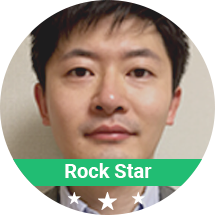
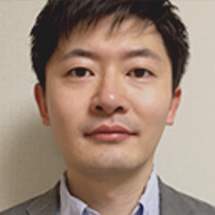
Issue #49446: Rock star photos & stars.

diff --git a/assets/css/style.css b/assets/css/style.css
@@ -1476,6 +1476,32 @@ label[for="Partner_Opt_In__c"] {
   font-size: 20px;
 }
 
+.badge:after {
+  content: '';
+  display: block;
+  bottom: -100%;
+  width: 100%;
+  height: 100%;
+  position: absolute;
+  background-repeat: no-repeat;
+  background-position: bottom center;
+}
+
+.rock-star-small:after {
+  background-image: url('/assets/images/rock-star-small.png');
+  bottom: -75%;
+}
+
+.rock-star:after {
+  background-image: url('/assets/images/rock-star.png');
+  bottom: -100%;
+}
+
+.rock-star-large:after {
+  background-image: url('/assets/images/rock-star-large.png');
+  bottom: -100%;
+}
+
 /**
  * This injects all of Tailwind's utility classes, generated based on your
  * config file.
@@ -4161,6 +4187,21 @@ label[for="Partner_Opt_In__c"] {
 }
 
 @media (min-width: 420px) {
+  .sm\:rock-star-small:after {
+    background-image: url('/assets/images/rock-star-small.png');
+    bottom: -75%;
+  }
+
+  .sm\:rock-star:after {
+    background-image: url('/assets/images/rock-star.png');
+    bottom: -100%;
+  }
+
+  .sm\:rock-star-large:after {
+    background-image: url('/assets/images/rock-star-large.png');
+    bottom: -100%;
+  }
+
   .sm\:list-reset {
     list-style: none;
     padding: 0;
@@ -6743,6 +6784,21 @@ label[for="Partner_Opt_In__c"] {
 }
 
 @media (min-width: 576px) {
+  .md\:rock-star-small:after {
+    background-image: url('/assets/images/rock-star-small.png');
+    bottom: -75%;
+  }
+
+  .md\:rock-star:after {
+    background-image: url('/assets/images/rock-star.png');
+    bottom: -100%;
+  }
+
+  .md\:rock-star-large:after {
+    background-image: url('/assets/images/rock-star-large.png');
+    bottom: -100%;
+  }
+
   .md\:list-reset {
     list-style: none;
     padding: 0;
@@ -9325,6 +9381,21 @@ label[for="Partner_Opt_In__c"] {
 }
 
 @media (max-width: 767px) {
+  .\<lg\:rock-star-small:after {
+    background-image: url('/assets/images/rock-star-small.png');
+    bottom: -75%;
+  }
+
+  .\<lg\:rock-star:after {
+    background-image: url('/assets/images/rock-star.png');
+    bottom: -100%;
+  }
+
+  .\<lg\:rock-star-large:after {
+    background-image: url('/assets/images/rock-star-large.png');
+    bottom: -100%;
+  }
+
   .\<lg\:list-reset {
     list-style: none;
     padding: 0;
@@ -11907,6 +11978,21 @@ label[for="Partner_Opt_In__c"] {
 }
 
 @media (min-width: 768px) {
+  .lg\:rock-star-small:after {
+    background-image: url('/assets/images/rock-star-small.png');
+    bottom: -75%;
+  }
+
+  .lg\:rock-star:after {
+    background-image: url('/assets/images/rock-star.png');
+    bottom: -100%;
+  }
+
+  .lg\:rock-star-large:after {
+    background-image: url('/assets/images/rock-star-large.png');
+    bottom: -100%;
+  }
+
   .lg\:list-reset {
     list-style: none;
     padding: 0;
@@ -14489,6 +14575,21 @@ label[for="Partner_Opt_In__c"] {
 }
 
 @media (min-width: 992px) {
+  .xl\:rock-star-small:after {
+    background-image: url('/assets/images/rock-star-small.png');
+    bottom: -75%;
+  }
+
+  .xl\:rock-star:after {
+    background-image: url('/assets/images/rock-star.png');
+    bottom: -100%;
+  }
+
+  .xl\:rock-star-large:after {
+    background-image: url('/assets/images/rock-star-large.png');
+    bottom: -100%;
+  }
+
   .xl\:list-reset {
     list-style: none;
     padding: 0;

diff --git a/_includes/team_profile.html b/_includes/team_profile.html
@@ -4,13 +4,14 @@
 <div class="xl:intrinsic-2x1">
   <div class="w-32 mb-2 mx-auto relative sm:float-left sm:ml-0 sm:mr-3 md:w-48 xl:absolute xl:m-0 xl:pin-y xl:pin-l xl:w-1/2 xl:pr-4">
     {% if headshot %}
-      <img class="w-full border p-1 xl:border-0 xl:p-0  {{ person.caption | slugify }}" src="/{{ headshot.path | replace_first: '_team', 'team' }}" alt="Picture of {{ include.person.name | escape }}" />
+      <img class="w-full border p-1 xl:border-0 xl:p-0" src="/{{ headshot.path | replace_first: '_team', 'team' }}" alt="Picture of {{ include.person.name | escape }}" />
     {% else %}
       <div class="intrinsic-1x1 bg-grey-light"></div>
     {% endif %}
-    {% if include.person.caption %}
-      <div class="absolute w-full pin-b pb-1 mb-4 md:mb-6 xl:mb-16">
-        <div class="bg-green text-center text-white text-xs md:text-base md:font-bold xl:text-4xl xl:mr-4">{{ include.person.caption }}</div>
+    {% if include.person.badge %}
+      <div class="absolute pin-r pin-l pin-b border border-transparent pb-1 mt-1 mx-1 mb-4  md:mb-6 xl:mt-0 xl:mx-0 xl:mb-16 xl:border-0">
+        {% assign badge_slug = person.badge | slugify %}
+        <div class="relative bg-green text-center text-white text-xs md:text-base md:font-bold xl:text-4xl xl:mr-4 badge {{ badge_slug }}-small md:{{ badge_slug }} xl:{{ badge_slug }}-large">{{ include.person.badge }}</div>
       </div>
     {% endif %}
   </div>

diff --git a/team.html b/team.html
@@ -37,12 +37,12 @@ team:
         {% assign headshot = team_collection.files | where: "basename", person.slug | first %}
         <div class="inline-block w-2/3 overflow-hidden rounded-full relative">
           {% if headshot %}
-            <img class="w-full align-middle {{ person.caption | slugify }}" src="/{{ headshot.path | replace_first: '_team', 'team' }}" alt="Picture of {{ person.name | escape }}" />
+            <img class="w-full align-middle" src="/{{ headshot.path | replace_first: '_team', 'team' }}" alt="Picture of {{ person.name | escape }}" />
           {% else %}
             <div class="intrinsic-1x1 bg-grey-light"></div>
           {% endif %}
-          {% if person.caption %}
-            <div class="bg-green text-white absolute w-full pin-b mb-6 font-bold text-lg">{{ person.caption }}</div>
+          {% if person.badge %}
+            <div class="bg-green text-white absolute w-full pin-b mb-6 font-bold text-lg badge {{ person.badge | slugify }}">{{ person.badge }}</div>
           {% endif %}
         </div>
         <h2 class="text-green text-xl font-normal">{{ person.name }}</h2>

diff --git a/src/css/components/team-badges.css b/src/css/components/team-badges.css
@@ -1,0 +1,24 @@
+.badge:after {
+  content: '';
+  display: block;
+  bottom: -100%;
+  width: 100%;
+  height: 100%;
+  position: absolute;
+  background-repeat: no-repeat;
+  background-position: bottom center;
+}
+@responsive {
+  .rock-star-small:after {
+    background-image: url('/assets/images/rock-star-small.png');
+    bottom: -75%;
+  }
+  .rock-star:after {
+    background-image: url('/assets/images/rock-star.png');
+    bottom: -100%;
+  }
+  .rock-star-large:after {
+    background-image: url('/assets/images/rock-star-large.png');
+    bottom: -100%;
+  }
+}

diff --git a/src/css/style.css b/src/css/style.css
@@ -50,6 +50,7 @@
 @import "components/hr-text-row";
 @import "components/full-calendar";
 @import "components/cookie-banner";
+@import "components/team-badges";
 
 /**
  * This injects all of Tailwind's utility classes, generated based on your

diff --git a/_team/igor-dianov.md b/_team/igor-dianov.md
@@ -3,7 +3,7 @@ name: Igor Dianov
 role: Activiti Core Developer
 social_links:
   github: https://github.com/igdianov
-caption: Rock Star
+badge: Rock Star
 ---
 
 Igor Dianov brings 25+ years of experience in architecting, developing and managing software for scalable and persistent enterprise applications. In early 2015, Igor Dianov together with D.Sc.Mykhailo Dianov set out to develop a new concept of advanced & scalable enterprise application architecture blueprints by separating communication and application concerns and connecting client and server side services in a clean, controlled & secured manner (www.introproventures.com). Before co-founding IntroPro Ventures, Igor worked on enterprise software development in financial, telecommunication, content management, process management and content distribution applications for companies such as Sberbank, Telegroup, and PressReader (formely NewspaperDirect). He brings his experience building large-scale enterprise applications and vision for scalable software architecture and integrations leveraging mature open source software. Over the last 15 years of professional activity Igor Dianov was operating in the Greater Vancouver area, British Columbia, Canada. Igor Dianov graduated as MS in Electrical Engineering from National Technical University of Ukraine with specialization in Computer Systems for Experimental Research and Integrated Testing. In his leisure time, Igor is dedicated to sailing and racing windsurfers in Vancouver, BC and Oregon, US.

diff --git a/_team/daisuke-yoshimoto.md b/_team/daisuke-yoshimoto.md
@@ -3,7 +3,7 @@ name: Daisuke Yoshimoto
 role: Activiti Core Developer
 social_links:
   github: https://github.com/daisuke-yoshimoto
-caption: Rock Star
+badge: Rock Star
 ---
 
 Daisuke is a software engineer at Japanese software company NTT DATA INTRAMART. He is one of the lead developers for IM-BPM, which uses Activiti Engine as a core BPM engine and adopts Activiti Designer as process modeling tool.
